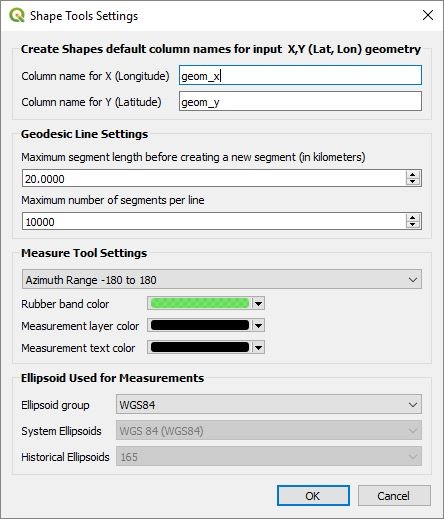
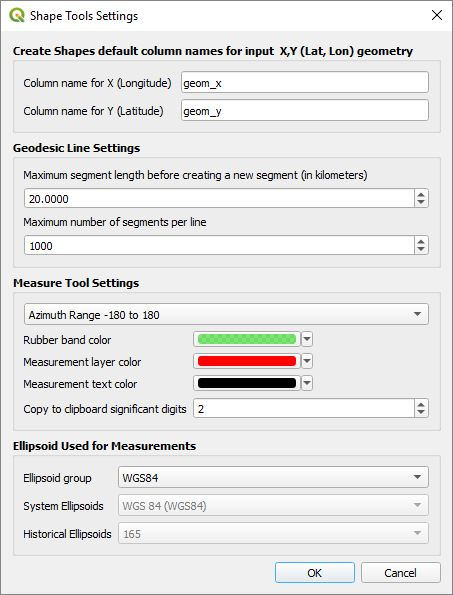
Add quick copy of values for geodesic measure tool

Changed region(s): [[0.0, 0.0, 0.9955, 0.9865], [0.9369, 0.0, 0.9955, 0.0308], [0.9077, 0.6782, 0.9662, 0.7091]]

diff --git a/geodesicMeasureTool.py b/geodesicMeasureTool.py
@@ -4,8 +4,8 @@ from geographiclib.geodesic import Geodesic
 
 from qgis.PyQt.QtCore import Qt, QSettings, QVariant, QByteArray, QCoreApplication
 from qgis.PyQt.QtGui import QColor
-from qgis.PyQt.QtWidgets import QTableWidgetItem, QDialog
-from qgis.core import (QgsCoordinateTransform, 
+from qgis.PyQt.QtWidgets import QTableWidgetItem, QDialog, QApplication
+from qgis.core import (Qgis, QgsCoordinateTransform, 
     QgsUnitTypes, QgsWkbTypes, QgsGeometry, QgsFields, QgsField, 
     QgsProject, QgsVectorLayer, QgsFeature, 
     QgsPalLayerSettings, QgsVectorLayerSimpleLabeling)
@@ -34,7 +34,14 @@ class GeodesicMeasureTool(QgsMapTool):
         '''Close the geodesic measure tool dialog box.'''
         if self.measureDialog.isVisible():
             self.measureDialog.closeDialog()
+    
+    def keyPressEvent(self, event):
+        if not self.measureDialog.isVisible():
+            return
+        key = event.key()
+        self.measureDialog.keyPressed(key)
         
+    
     def canvasPressEvent(self, event):
         '''Capture the coordinates when the user click on the mouse for measurements.'''
         if not self.measureDialog.isVisible():
@@ -97,6 +104,7 @@ class GeodesicMeasureDialog(QDialog, FORM_CLASS):
         self.capturedPoints = []
         self.distances = []
         self.activeMeasuring = True
+        self.lastMotionPt = None
         self.unitsChanged()
         self.currentDistance = 0.0
         
@@ -115,6 +123,7 @@ class GeodesicMeasureDialog(QDialog, FORM_CLASS):
         
     def stop(self):
         self.activeMeasuring = False
+        self.lastMotionPt = None
         
     def closeEvent(self, event):
         self.closeDialog()
@@ -133,6 +142,49 @@ class GeodesicMeasureDialog(QDialog, FORM_CLASS):
         label = tr('Ellipsoid: ') + settings.ellipseDescription
         self.geodLabel.setText(label)
 
+    def keyPressed(self, key):
+        index = len(self.capturedPoints)
+        if index <= 0:
+            return
+        if self.motionReady():
+            if self.lastMotionPt == None:
+                return
+            (distance, startAngle, endAngle) = self.calcParameters(self.capturedPoints[index-1], self.lastMotionPt)
+        else:
+            if index < 2:
+                return
+            (distance, startAngle, endAngle) = self.calcParameters(self.capturedPoints[index-2], self.capturedPoints[index-1])
+        
+        distance = self.unitDistance(distance)
+        clipboard = QApplication.clipboard()
+        if key == Qt.Key_1 or key == Qt.Key_F:
+            s = '{:.{prec}f}'.format(startAngle, prec=settings.measureSignificantDigits)
+            clipboard.setText(s)
+            self.iface.messageBar().pushMessage("", "Heading to {} copied to the clipboard".format(s), level=Qgis.Info, duration=3)
+        elif key == Qt.Key_2 or key == Qt.Key_T:
+            s = '{:.{prec}f}'.format(endAngle, prec=settings.measureSignificantDigits)
+            clipboard.setText(s)
+            self.iface.messageBar().pushMessage("", "Heading from {} copied to the clipboard".format(s), level=Qgis.Info, duration=3)
+        elif key == Qt.Key_3 or key == Qt.Key_D:
+            s = '{:.{prec}f}'.format(distance, prec=settings.measureSignificantDigits)
+            clipboard.setText(s)
+            self.iface.messageBar().pushMessage("", "Distance {} copied to the clipboard".format(s), level=Qgis.Info, duration=3)
+        elif key == Qt.Key_4 or key == Qt.Key_A:
+            total = 0.0
+            num = len(self.capturedPoints)
+            for i in range(1,num):
+                (d, startA, endA) = self.calcParameters(self.capturedPoints[i-1], self.capturedPoints[i])
+                total += d
+            total = self.unitDistance(total)
+            # Add in the motion distance
+            if self.motionReady():
+                total += distance
+            s = '{:.{prec}f}'.format(total, prec=settings.measureSignificantDigits)
+            clipboard.setText(s)
+            self.iface.messageBar().pushMessage("", "Total distance {} copied to the clipboard".format(s), level=Qgis.Info, duration=3)
+        else:
+            return
+            
     def unitsChanged(self):
         label = "Distance [{}]".format(DISTANCE_LABELS[self.unitsComboBox.currentIndex()])
         item = QTableWidgetItem(label)
@@ -182,6 +234,7 @@ class GeodesicMeasureDialog(QDialog, FORM_CLASS):
         self.insertParams(index, self.currentDistance, startAngle, endAngle)
         self.formatTotal()
         linePts = self.getLinePts(self.currentDistance, self.capturedPoints[index-1], pt)
+        self.lastMotionPt = pt
         self.tempRb.setToGeometry(QgsGeometry.fromPolylineXY( linePts ), None)
         
     def calcParameters(self, pt1, pt2):

diff --git a/settings.py b/settings.py
@@ -95,6 +95,7 @@ class Settings():
         self.maxSegLength =  float(qset.value('/ShapeTools/MaxSegLength', 20.0)) # In km
         self.maxSegments =  int(qset.value('/ShapeTools/MaxSegments', 1000))
         self.mtAzMode = int(qset.value('/ShapeTools/MtAzMode', 0))
+        self.measureSignificantDigits = int(qset.value('ShapeTools/MeasureSignificantDigits', 2))
         color = qset.value('ShapeTools/RubberBandColor', '#dea743')
         self.rubberBandColor = QColor(color)
         value = int(qset.value('ShapeTools/RubberBandOpacity', 192))
@@ -206,7 +207,6 @@ class SettingsWidget(QDialog, FORM_CLASS):
             index = self.systemEllipsoidComboBox.currentIndex()
             name = self.systemEllipsoidComboBox.itemData(index)
         qset.setValue('/ShapeTools/Ellipsoid', name)
-        settings.readSettings()
         settings.rubberBandColor  = self.rubberBandColorButton.color()
         settings.measureLineColor = self.measureLineColorButton.color()
         settings.measureTextColor = self.measureTextColorButton.color()
@@ -214,6 +214,8 @@ class SettingsWidget(QDialog, FORM_CLASS):
         qset.setValue('/ShapeTools/RubberBandOpacity', settings.rubberBandColor.alpha())
         qset.setValue('/ShapeTools/MeasureLineColor', settings.measureLineColor.name())
         qset.setValue('/ShapeTools/MeasureTextColor', settings.measureTextColor.name())
+        qset.setValue('/ShapeTools/MeasureSignificantDigits', self.significantDigitsSpinBox.value())
+        settings.readSettings()
         self.close()
         
     def showEvent(self, e):
@@ -225,6 +227,7 @@ class SettingsWidget(QDialog, FORM_CLASS):
         self.yColumnNameLineEdit.setText(settings.geomYName)
         self.maxSegmentsSpinBox.setValue(settings.maxSegments)
         self.segLengthSpinBox.setValue(settings.maxSegLength)
+        self.significantDigitsSpinBox.setValue(settings.measureSignificantDigits)
         self.mtAzComboBox.setCurrentIndex(settings.mtAzMode)
         self.rubberBandColorButton.setColor(settings.rubberBandColor)
         self.measureLineColorButton.setColor(settings.measureLineColor)

diff --git a/readme.md b/readme.md
@@ -164,6 +164,15 @@ This function can also be accessed from the **Processing Toolbox**.
 
 This provides the ability to measure distances using geodesic (shortest path) algorithms. The results returned are similar to those used by Google Earth and makes for a nice baseline of distances. It also includes the heading from the first point to the second and a heading from the second point to the first. The units are in degrees. The units of distance can be kilometers, meters, centimeters, miles, yards, feet, inches, and nautical miles. Simply click on the ***Geodesic Measure Tool*** icon and start clicking on the map. Notice that the ellipsoid used to calculate measurements is listed in the lower left-hand corner. By default this is set to ***WGS 84***, but it can be changed in the ***Settings*** menu.
 
+While using the geodesic measure tool the user can quickly copy values of the last heading to, heading from, distance, and total distance onto the clipboard by typing one of the following keys:
+
+* **1 or T** - Copies the most recent 'Heading to' value onto the clipboard.
+* **2 or F** - Copies the most recent 'Heading from' value onto the clipboard.
+* **3 or D** - Copies the most recent 'Distance' value onto the clipboard.
+* **4 or A** - Copies the 'Total distance' value onto the clipboard.
+
+The number of significant decimal digits of the value copied onto the clipboard is determined in the ***Settings***.
+
 <div style="text-align:center"><img src="doc/geodesicmeasure.jpg" alt="Geodesic Measure Tool"></div>
 
 The **Save to Layer** button will create a **Measurement** layer that contains the distance and by default the distance label will be displayed.
@@ -252,6 +261,7 @@ The settings dialog box can be accessed from the Shape Tools menu *Vector->Shape
     * **Rubber band color** - Selects the rubber band line color used by the measure tool.
     * **Measurement layer color** - Vector line color when a measurement layer is created from the ***Geodesic measure tool*** or from the ***Geodesic measurement layer*** tool.
     * **Measurement layer text** - Color of the text when a measurement layer is created from the ***Geodesic measure tool*** or from the ***Geodesic measurement layer*** tool.
+    * **Copy to clipboard significant digits** - This is the number of significant decimal digits that are copied onto the clipboard when the user is using the ***Geodesic measure tool*** and presses on one of the copy to clipboard keys.
 * **Ellipsoid Used for Measurements** - Selects the ellipsoid used for calculating the geodesic distances within Shape Tools. By default this should normally be *WGS 84*
     * **Ellipsoid group** - Choose the default *WGS 84* setting or enable *System Ellipsoids* or *Historical Ellipsoids*.
     * **System Ellipsoids** - This is enabled if **Ellipsoid group** is set to *System Ellipsoids*.
